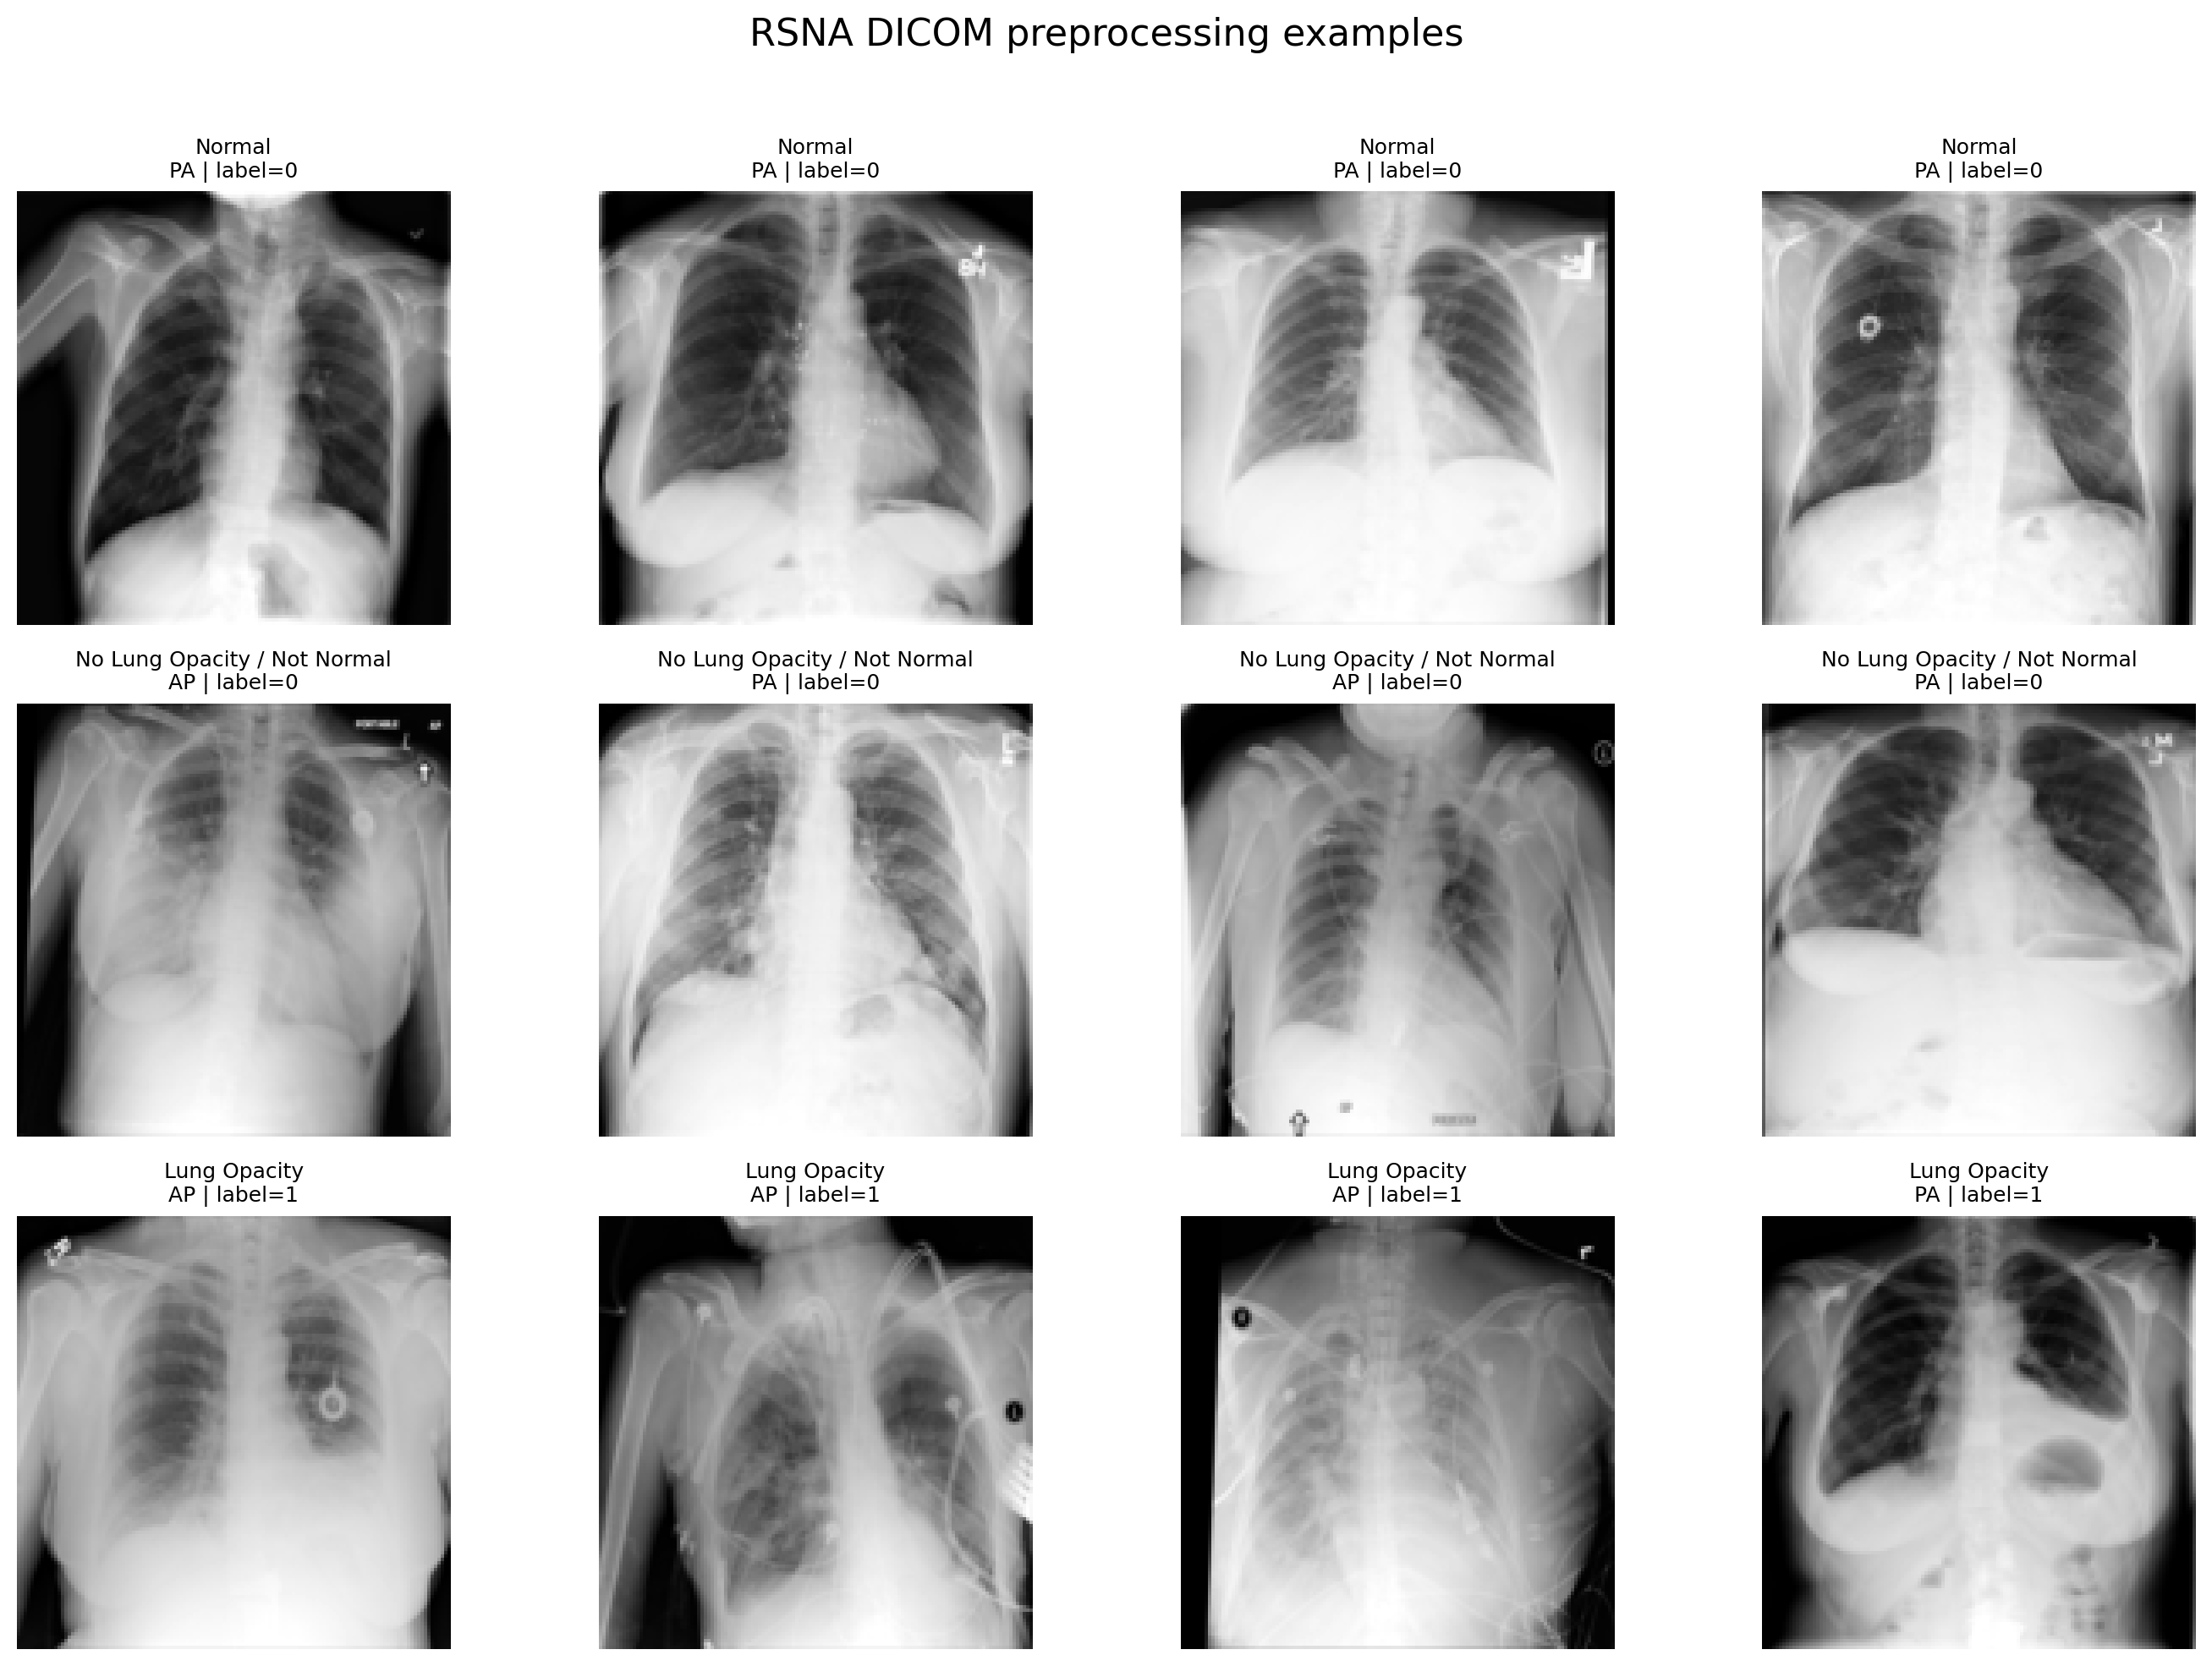
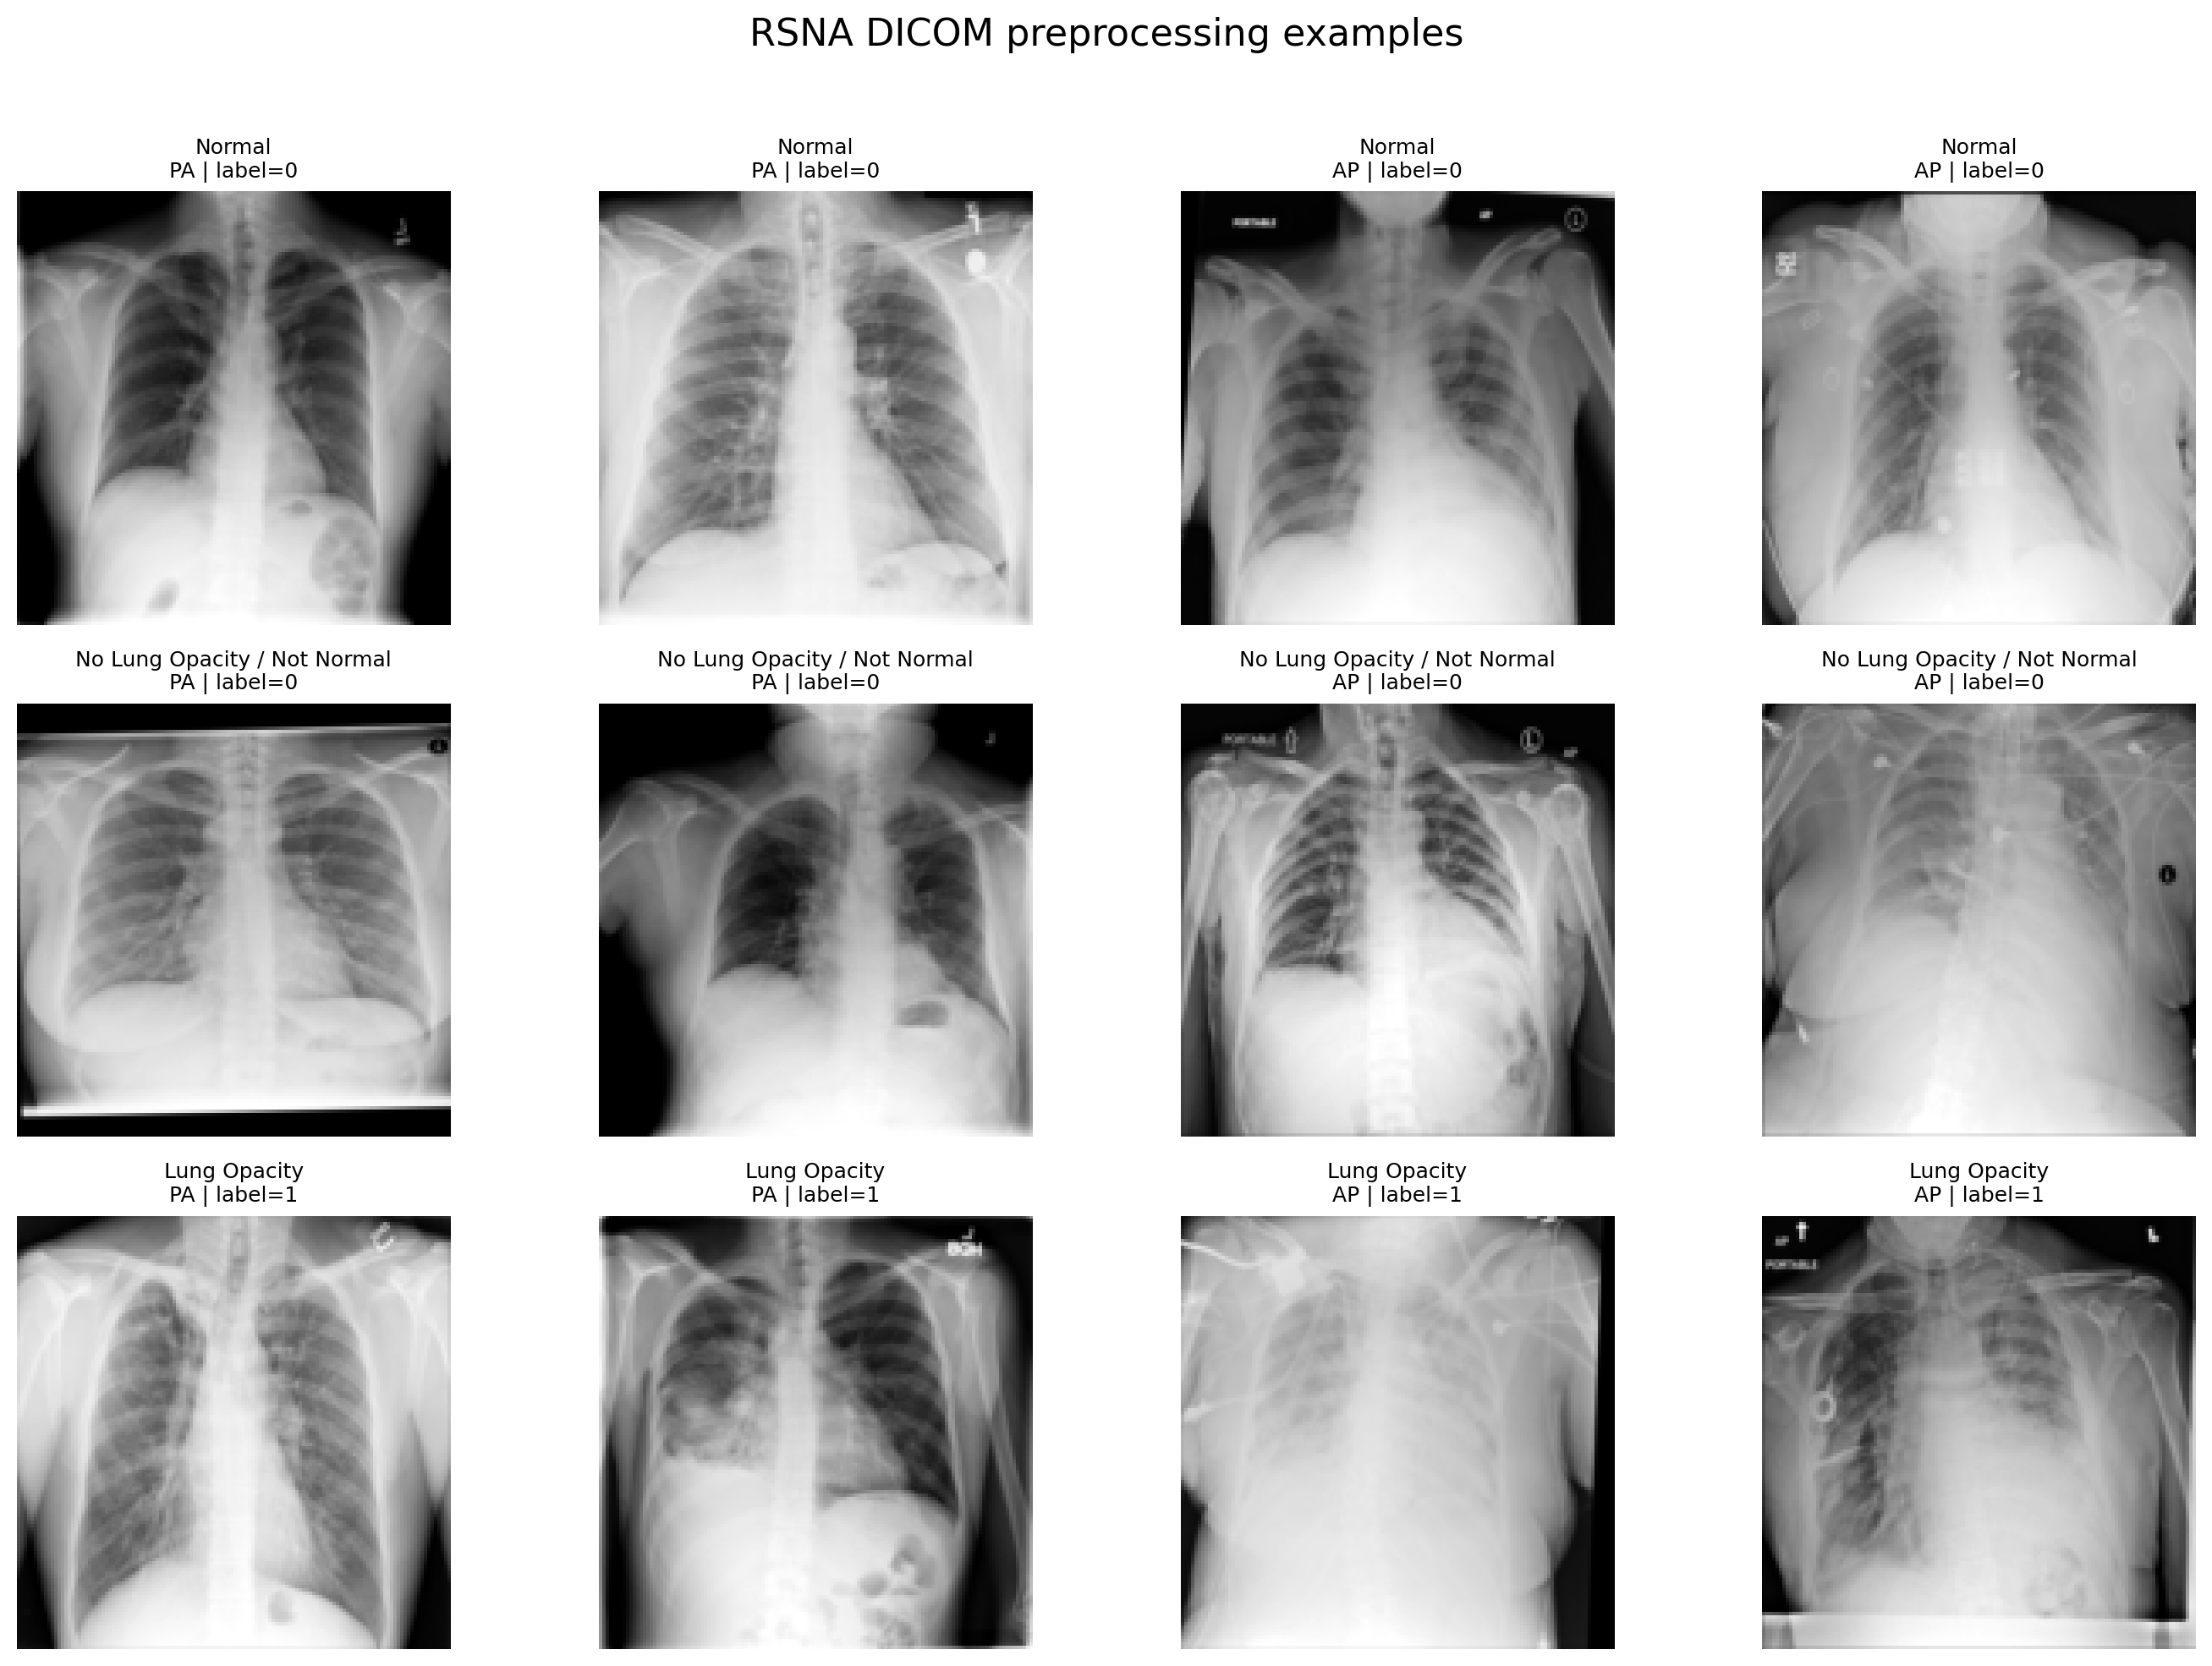
update validate_preprocessing file

diff --git a/experiments/validate_preprocessing.py b/experiments/validate_preprocessing.py
@@ -17,10 +17,14 @@ from src.dicom import (
     preprocess_dicom,
 )
 
-
 RANDOM_SEED = 42
 
-SAMPLES_PER_CLASS = 4
+SAMPLES_PER_VIEW = 2
+
+VIEW_ORDER = [
+    "PA",
+    "AP",
+]
 
 TRAIN_MANIFEST_PATH = (
     MANIFEST_DIR
@@ -121,45 +125,64 @@ class_order = [
     "Lung Opacity",
 ]
 
-
 selected_groups = []
+
+group_number = 0
 
 
 for class_name in class_order:
 
-    class_dataframe = (
-        train_dataframe[
+    for view_position in VIEW_ORDER:
+
+        group_dataframe = (
             train_dataframe[
-                "detailed_class"
+                (
+                    train_dataframe[
+                        "detailed_class"
+                    ]
+                    == class_name
+                )
+                &
+                (
+                    train_dataframe[
+                        "view_position"
+                    ]
+                    == view_position
+                )
             ]
-            == class_name
-        ]
-        .copy()
-    )
-
-
-    if (
-        len(class_dataframe)
-        < SAMPLES_PER_CLASS
-    ):
-
-        raise ValueError(
-            f"Not enough examples for "
-            f"class: {class_name}"
+            .copy()
         )
 
 
-    selected_class_dataframe = (
-        class_dataframe.sample(
-            n=SAMPLES_PER_CLASS,
-            random_state=RANDOM_SEED,
+        if (
+            len(group_dataframe)
+            < SAMPLES_PER_VIEW
+        ):
+
+            raise ValueError(
+                "Not enough examples for "
+                f"class={class_name}, "
+                f"view={view_position}"
+            )
+
+
+        selected_group_dataframe = (
+            group_dataframe.sample(
+                n=SAMPLES_PER_VIEW,
+                random_state=(
+                    RANDOM_SEED
+                    + group_number
+                ),
+            )
         )
-    )
 
 
-    selected_groups.append(
-        selected_class_dataframe
-    )
+        selected_groups.append(
+            selected_group_dataframe
+        )
+
+
+        group_number += 1
 
 
 selected_dataframe = pd.concat(
@@ -325,10 +348,18 @@ failed_dataframe = (
     ]
 )
 
+SAMPLES_PER_CLASS = (
+    len(VIEW_ORDER)
+    * SAMPLES_PER_VIEW
+)
+
 
 figure, axes = plt.subplots(
     nrows=len(class_order),
-    ncols=SAMPLES_PER_CLASS,
+    ncols=(
+        len(VIEW_ORDER)
+        * SAMPLES_PER_VIEW
+    ),
     figsize=(14, 10),
 )
 

diff --git a/src/dicom.py b/src/dicom.py
@@ -12,6 +12,46 @@ from config import (
 LOWER_PERCENTILE = 0.5
 UPPER_PERCENTILE = 99.5
 
+def load_dicom_pixels(
+    dicom_path,
+):
+
+    dicom_path = Path(
+        dicom_path
+    )
+
+
+    if not dicom_path.exists():
+
+        raise FileNotFoundError(
+            dicom_path
+        )
+
+
+    dicom_dataset = pydicom.dcmread(
+        str(
+            dicom_path
+        )
+    )
+
+
+    pixel_array = np.asarray(
+        dicom_dataset.pixel_array,
+        dtype=np.float32,
+    )
+
+
+    if pixel_array.ndim != 2:
+
+        raise ValueError(
+            "Expected a two-dimensional grayscale "
+            f"DICOM image, but received shape "
+            f"{pixel_array.shape}."
+        )
+
+
+    return pixel_array
+
 def preprocess_dicom_with_metadata(
     dicom_path,
     target_height=IMAGE_HEIGHT,
@@ -36,12 +76,9 @@ def preprocess_dicom_with_metadata(
     )
 
 
-    pixel_array = (
-        dicom_dataset
-        .pixel_array
-        .astype(
-            np.float32
-        )
+    pixel_array = np.asarray(
+        dicom_dataset.pixel_array,
+        dtype=np.float32,
     )
 
 
@@ -69,7 +106,6 @@ def preprocess_dicom_with_metadata(
             "RescaleSlope",
             1.0,
         )
-        or 1.0
     )
 
 
@@ -79,10 +115,7 @@ def preprocess_dicom_with_metadata(
             "RescaleIntercept",
             0.0,
         )
-        or 0.0
     )
-
-
     image = (
         pixel_array
         * rescale_slope
@@ -200,7 +233,6 @@ def preprocess_dicom_with_metadata(
             "intensity variation."
         )
 
-
     image = np.clip(
         image,
         lower_value,
@@ -221,6 +253,7 @@ def preprocess_dicom_with_metadata(
         0.0,
         1.0,
     )
+
     image_tensor = tf.convert_to_tensor(
         image[
             ...,
@@ -257,7 +290,6 @@ def preprocess_dicom_with_metadata(
     ).astype(
         np.float32
     )
-
 
     metadata = {
         "dicom_path": str(